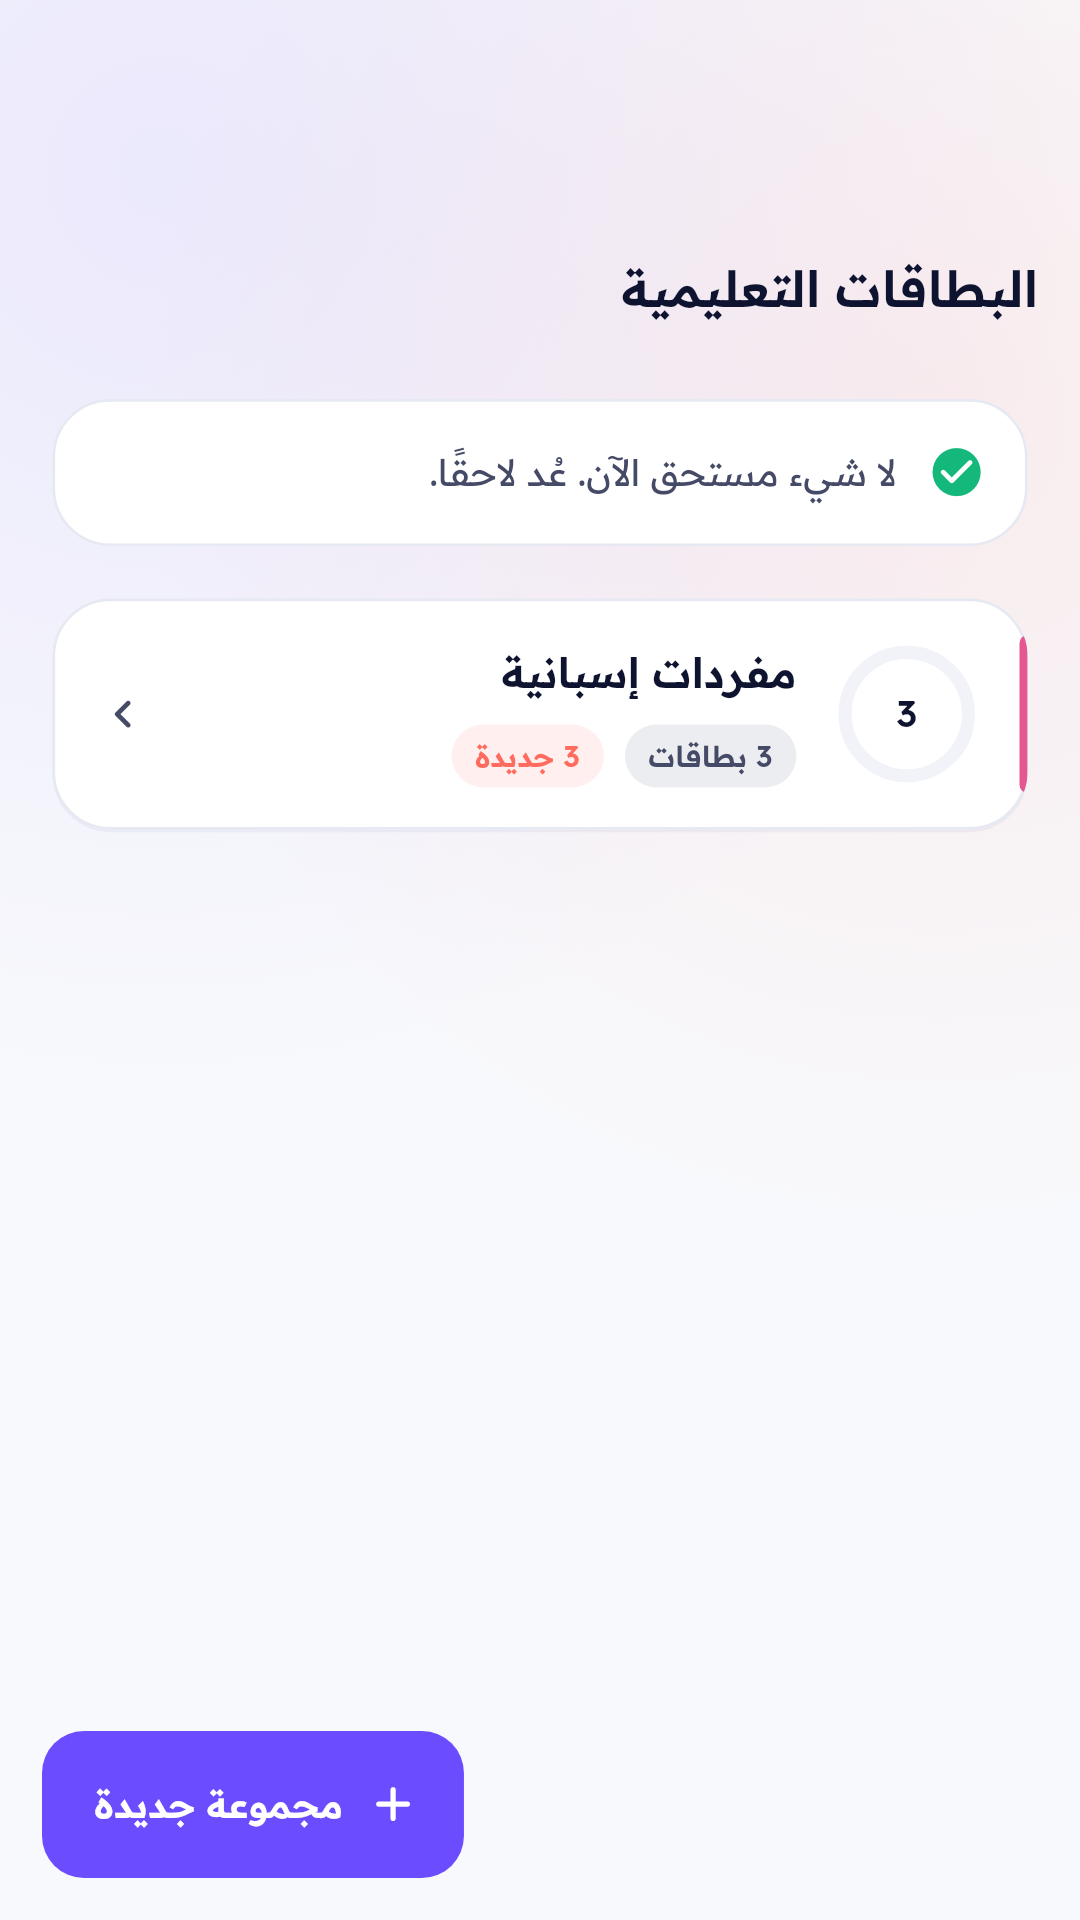
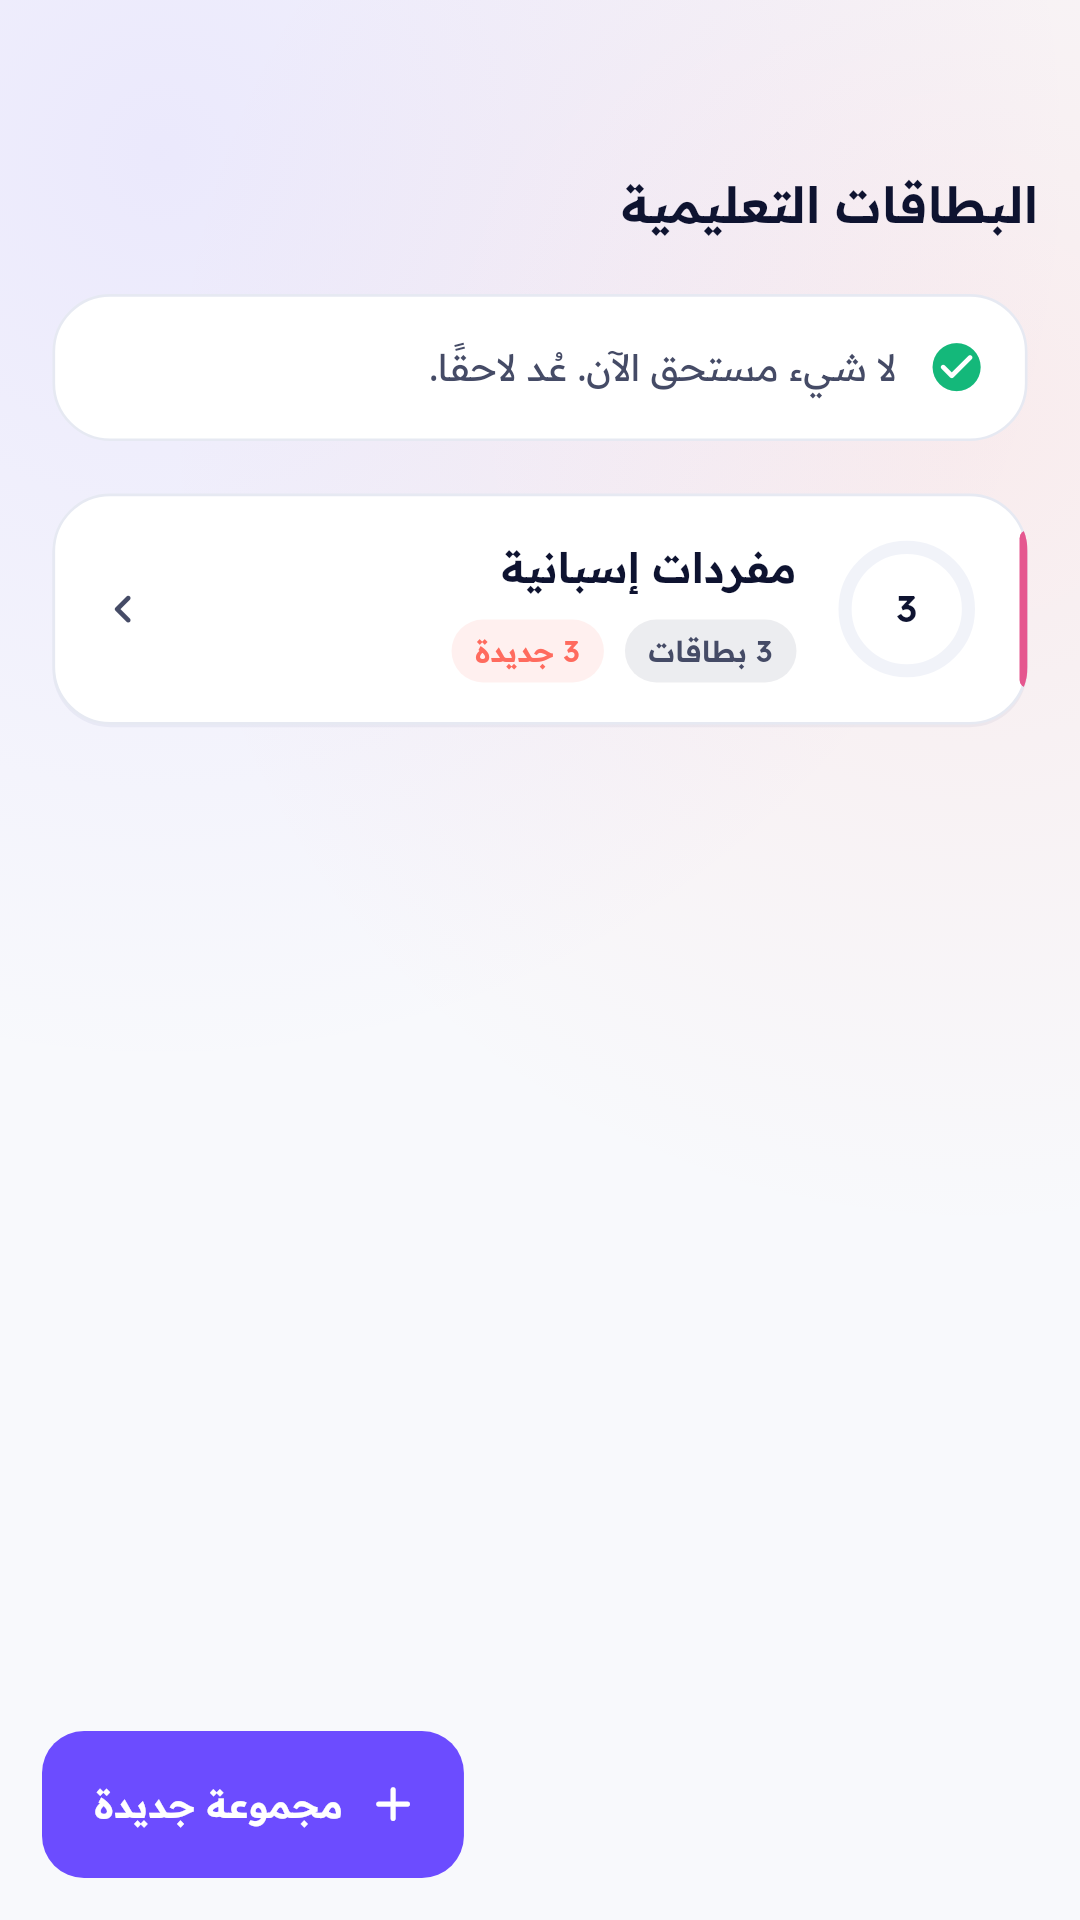
docs: audit report 2026-11-18; refreshed store screenshots
Claude-Session: https://claude.ai/code/session_01TJTaqvqBiEb32JNvDNDy7y

diff --git a/docs/qa/AUDIT_20261118.md b/docs/qa/AUDIT_20261118.md
@@ -1,0 +1,49 @@
+# Technical and security audit — 2026-11-18
+
+Scope: Android manifest and network config, database encryption and key handling,
+encrypted backups, the optional remote assistant, notifications, logging, imports,
+CI workflows, performance and layout on real devices (owner's screenshots).
+
+## Open — needs the owner
+
+| # | Severity | Finding | Recommendation |
+|---|---|---|---|
+| 1 | High | `hermes-auto-resume.yml` runs twice a day (00:25 and 08:25 UTC) and starts `hermes-relay.yml`, which runs an external AI agent with `--yolo` (no confirmations) and `contents: write`, then `git add -A` and **pushes straight to `main`** without review and without requiring tests to pass. `state/future2035_phases.json` still says `PHASE_0_DISCOVERY / IN_PROGRESS`, so the agent believes the app is at the very beginning and may rebuild or overwrite it. The job also places the Google/OpenRouter/NVIDIA keys in the environment of a tool-executing agent that reads repository content (prompt-injection exposure). | Disable both workflows (Actions → workflow → "Disable workflow"), or change the relay to open a pull request instead of pushing to `main`. |
+| 2 | High | `main` accepts direct pushes (the relay bot and the `sali97m-cpu` account pushed to it directly). | Settings → Branches → protect `main`: require a pull request and the checks "Analyze and test Flutter app", "Build and upload Android debug APK" and "regression_gate". |
+| 3 | Medium | Release signing secrets are not configured yet. | Add `FUTURE_UPLOAD_KEYSTORE_B64`, `FUTURE_UPLOAD_STORE_PASSWORD`, `FUTURE_UPLOAD_KEY_ALIAS`, `FUTURE_UPLOAD_KEY_PASSWORD`, `FUTURE_UPLOAD_CERT_SHA256`, then run "Android release". |
+| 4 | Low | New strings in es/fr/pt/ru/zh/hi were written without native-speaker review. | Review before store release. |
+
+## Fixed in this round
+
+| Finding | Fix |
+|---|---|
+| QA APK was a **debug** build (JIT): slow start, janky transitions. | QA pre-release is now a **profile (AOT) build**, as smooth as the store build. |
+| Each CI run signed the QA APK with a new random key, so a newer QA build could not be installed over the previous one. | One QA key kept in the Actions cache (never in the repository). The current test build must be uninstalled once. |
+| Animated aurora background repainted every frame on every screen and forced the blurred navigation bar to re-blur continuously (GPU load, battery, jank). | Painted once in its own layer; navigation blur reduced and isolated. |
+| Grey loading placeholders flashed on every navigation. | Shown only if loading takes longer than 220 ms. |
+| Backup/restore ran Argon2id (19 MiB) on the UI isolate: the screen froze for seconds. | Key derivation runs on a background isolate. |
+| Floating buttons on Tasks and Calendar were hidden behind the floating navigation bar. | Buttons inside the shell sit above the bar. |
+| Large header left ~150 px empty above content; content scrolled visibly under the transparent header (e.g. the notification banner over the status bar). | Medium header with a solid background once content scrolls under it. |
+| Spaces: "البطاقات التعليمية" and its caption were cut with an ellipsis at larger display sizes. | Two lines allowed; tile height follows the font scale. |
+| "Link task" button overflowed at 150 % text on 360 px phones. | Wraps instead. |
+| Assistant: response body was read without a size limit. | Bounded at 1 MiB; no redirects for the authorized request. |
+| Card import split every line on the first `;`, had no quoted CSV, silently dropped bad lines and created duplicates. | RFC 4180 CSV/TSV with header detection, duplicates skipped (case/diacritics-insensitive), result reports imported / duplicates / incomplete rows; JSON format still accepted; 8 MiB limit. |
+| CSV export could produce spreadsheet formulas. | Cells starting with `= + - @` (non-numeric) are neutralised. |
+
+## Checked — no issue found
+
+- Database encrypted with sqlite3mc; 256-bit key generated with `Random.secure()`, stored in Android Keystore-backed secure storage, validated as hex before use; an existing database is never paired with a new key.
+- Backups: AES-256-GCM with the header as associated data, Argon2id KDF, header and size limits, bounded decompression, single-transaction restore, newer-schema backups rejected.
+- `allowBackup=false`, cloud backup and device-transfer exclude all app data.
+- Cleartext HTTP blocked by the network security config; the assistant accepts only `https://` URLs, asks consent per host, keeps the API key in secure storage.
+- Only the launcher activity is exported; notification receivers are not exported.
+- Notifications use private lock-screen visibility.
+- No `print`/`debugPrint` of user data in `lib/`.
+- Release builds can never fall back to the debug key (Gradle fails without upload credentials).
+- CI: gitleaks secret scan on every push/PR; secrets only in the signed-release job.
+
+## Device fit
+
+`test/widget/responsive/responsive_matrix_test.dart` lays out all 17 primary screens at
+320, 360, 375, 390, 412, 430, 600, 768, 840 and 1024 px, in English (LTR) and Arabic (RTL),
+plus 150 % and 200 % text at 360 and 412 px; any overflow fails the build.
